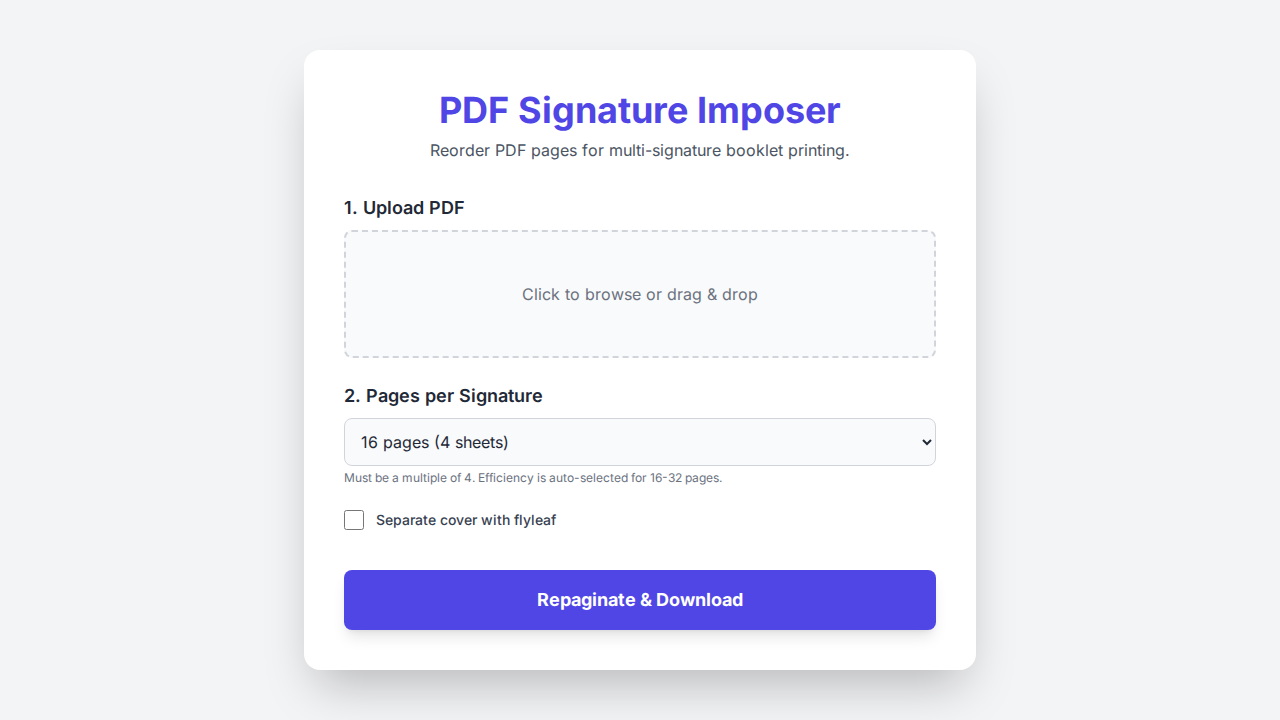
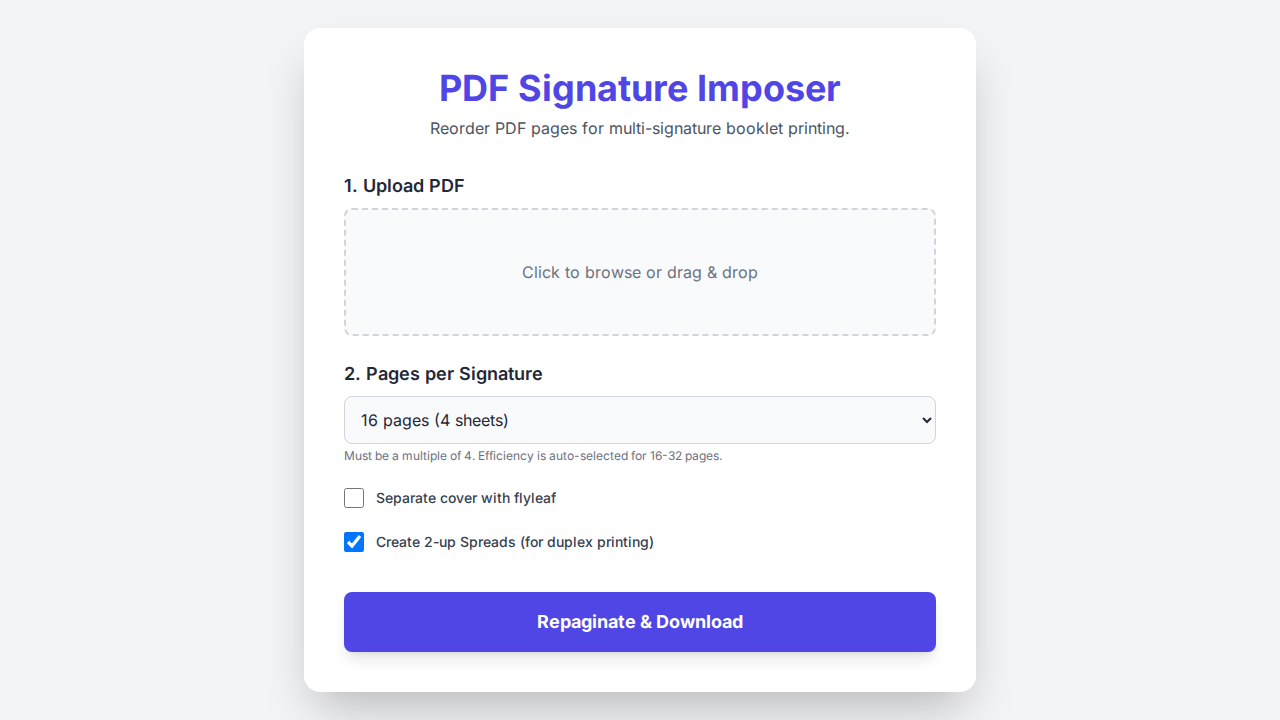
Add 2-up imposition feature for duplex printing
- Add `src/layout_logic.js` implementing `create2UpSpreads` function using UMD pattern.
- Update `index.html` to include `src/layout_logic.js` and add a "Create 2-up Spreads" checkbox.
- Update `processPDF` in `index.html` to invoke 2-up logic when checked.
- Add `test_2up.js` to verify 2-up layout generation.

diff --git a/index.html b/index.html
@@ -10,6 +10,7 @@
     <script src="https://cdn.jsdelivr.net/npm/pdf-lib/dist/pdf-lib.min.js"></script>
     <!-- Core Imposition Logic (Shared) -->
     <script src="src/imposition_logic.js"></script>
+    <script src="src/layout_logic.js"></script>
     <style>
         /* Custom styles for a better look and feel */
         @import url('https://fonts.googleapis.com/css2?family=Inter:wght@400;500;600;700&display=swap');
@@ -84,6 +85,14 @@
                 <input id="separate-cover-flyleaf" type="checkbox" class="h-5 w-5 text-indigo-600 border-gray-300 dark:border-gray-600 rounded focus:ring-indigo-500 bg-gray-50 dark:bg-gray-700">
                 <label for="separate-cover-flyleaf" class="ml-3 block text-sm font-medium text-gray-700 dark:text-gray-300">
                     Separate cover with flyleaf
+                </label>
+            </div>
+
+            <!-- Step 4: 2-up Imposition -->
+            <div class="flex items-center mt-2">
+                <input id="create-2up" type="checkbox" checked class="h-5 w-5 text-indigo-600 border-gray-300 dark:border-gray-600 rounded focus:ring-indigo-500 bg-gray-50 dark:bg-gray-700">
+                <label for="create-2up" class="ml-3 block text-sm font-medium text-gray-700 dark:text-gray-300">
+                    Create 2-up Spreads (for duplex printing)
                 </label>
             </div>
 
@@ -354,7 +363,16 @@
 
                 // 6. Save the PDF and trigger download
                 statusMessage.textContent = 'Finalizing PDF... Preparing download.';
-                const newPdfBytes = await newPdfDoc.save();
+                let newPdfBytes = await newPdfDoc.save();
+
+                // Check for 2-up request
+                const is2UpEnabled = document.getElementById('create-2up').checked;
+                if (is2UpEnabled) {
+                    statusMessage.textContent = 'Creating 2-up spreads...';
+                    // Use shared logic from src/layout_logic.js
+                    newPdfBytes = await LayoutLogic.create2UpSpreads(newPdfBytes);
+                }
+
                 const blob = new Blob([newPdfBytes], { type: 'application/pdf' });
                 const link = document.createElement('a');
                 link.href = URL.createObjectURL(blob);

diff --git a/src/layout_logic.js b/src/layout_logic.js
@@ -1,0 +1,54 @@
+(function (root, factory) {
+    if (typeof module === "object" && typeof module.exports === "object") {
+        const { PDFDocument } = require('pdf-lib');
+        module.exports = factory(PDFDocument);
+    } else {
+        root.LayoutLogic = factory(root.PDFLib.PDFDocument);
+    }
+}(typeof self !== "undefined" ? self : this, function (PDFDocument) {
+
+    async function create2UpSpreads(pdfBytes) {
+      // 1. Load the source PDF
+      const sourcePdf = await PDFDocument.load(pdfBytes);
+      const sourcePages = sourcePdf.getPages();
+
+      // 2. Create a new PDF document
+      const outputPdf = await PDFDocument.create();
+
+      // 3. Iterate through pages in pairs (0 & 1, 2 & 3, etc.)
+      for (let i = 0; i < sourcePages.length; i += 2) {
+        // Get the dimensions of the first page in the pair to determine output size
+        const { width, height } = sourcePages[i].getSize();
+
+        // Create a landscape page (Width = 2x source width, Height = source height)
+        // We assume standard portrait input pages.
+        const newPage = outputPdf.addPage([width * 2, height]);
+
+        // Embed the first page (Left side)
+        const [embeddedPage1] = await outputPdf.embedPdf(sourcePdf, [i]);
+        newPage.drawPage(embeddedPage1, {
+          x: 0,
+          y: 0,
+          width: width,
+          height: height,
+        });
+
+        // Embed the second page (Right side), if it exists
+        if (i + 1 < sourcePages.length) {
+          const [embeddedPage2] = await outputPdf.embedPdf(sourcePdf, [i + 1]);
+          newPage.drawPage(embeddedPage2, {
+            x: width, // Move to the right by one page width
+            y: 0,
+            width: width,
+            height: height,
+          });
+        }
+      }
+
+      // 4. Save and return the bytes
+      const outputBytes = await outputPdf.save();
+      return outputBytes;
+    }
+
+    return { create2UpSpreads };
+}));

diff --git a/test_2up.js b/test_2up.js
@@ -1,0 +1,44 @@
+const { PDFDocument, rgb, StandardFonts } = require('pdf-lib');
+const fs = require('fs');
+const { create2UpSpreads } = require('./src/layout_logic');
+
+async function runTest() {
+    console.log("[Test] Creating 4-page source PDF...");
+    const doc = await PDFDocument.create();
+    const font = await doc.embedFont(StandardFonts.Helvetica);
+
+    for (let i = 0; i < 4; i++) {
+        const page = doc.addPage([200, 300]);
+        page.drawText('Page ' + i, { x: 50, y: 50, size: 20, font, color: rgb(0,0,0) });
+    }
+    const sourceBytes = await doc.save();
+
+    console.log("[Test] Running create2UpSpreads...");
+    const outputBytes = await create2UpSpreads(sourceBytes);
+
+    const outputDoc = await PDFDocument.load(outputBytes);
+    const pageCount = outputDoc.getPageCount();
+    console.log(`[Test] Output Page Count: ${pageCount}`);
+
+    if (pageCount !== 2) {
+        console.error("❌ FAIL: Expected 2 pages, got " + pageCount);
+        process.exit(1);
+    }
+
+    const firstPage = outputDoc.getPages()[0];
+    const { width, height } = firstPage.getSize();
+    console.log(`[Test] Output Page Size: ${width}x${height}`);
+
+    if (Math.abs(width - 400) > 1 || Math.abs(height - 300) > 1) {
+        console.error("❌ FAIL: Expected 400x300, got " + width + "x" + height);
+        process.exit(1);
+    }
+
+    console.log("✅ 2-up logic verified.");
+    fs.writeFileSync('test_output_2up.pdf', outputBytes);
+}
+
+runTest().catch(err => {
+    console.error(err);
+    process.exit(1);
+});

diff --git a/verification/verify_2up_ui.py b/verification/verify_2up_ui.py
@@ -1,0 +1,29 @@
+from playwright.sync_api import sync_playwright
+import os
+
+def run():
+    with sync_playwright() as p:
+        browser = p.chromium.launch(headless=True)
+        page = browser.new_page()
+
+        # Load the local HTML file
+        page.goto("file:///app/index.html")
+
+        # Wait for the checkbox to be visible
+        checkbox = page.locator("#create-2up")
+        checkbox.wait_for(state="visible")
+
+        # Check if it is checked
+        is_checked = checkbox.is_checked()
+        print(f"Checkbox checked: {is_checked}")
+
+        if not is_checked:
+            print("Error: Checkbox should be checked by default")
+
+        # Take a screenshot of the controls area
+        page.screenshot(path="verification/verification.png")
+
+        browser.close()
+
+if __name__ == "__main__":
+    run()
